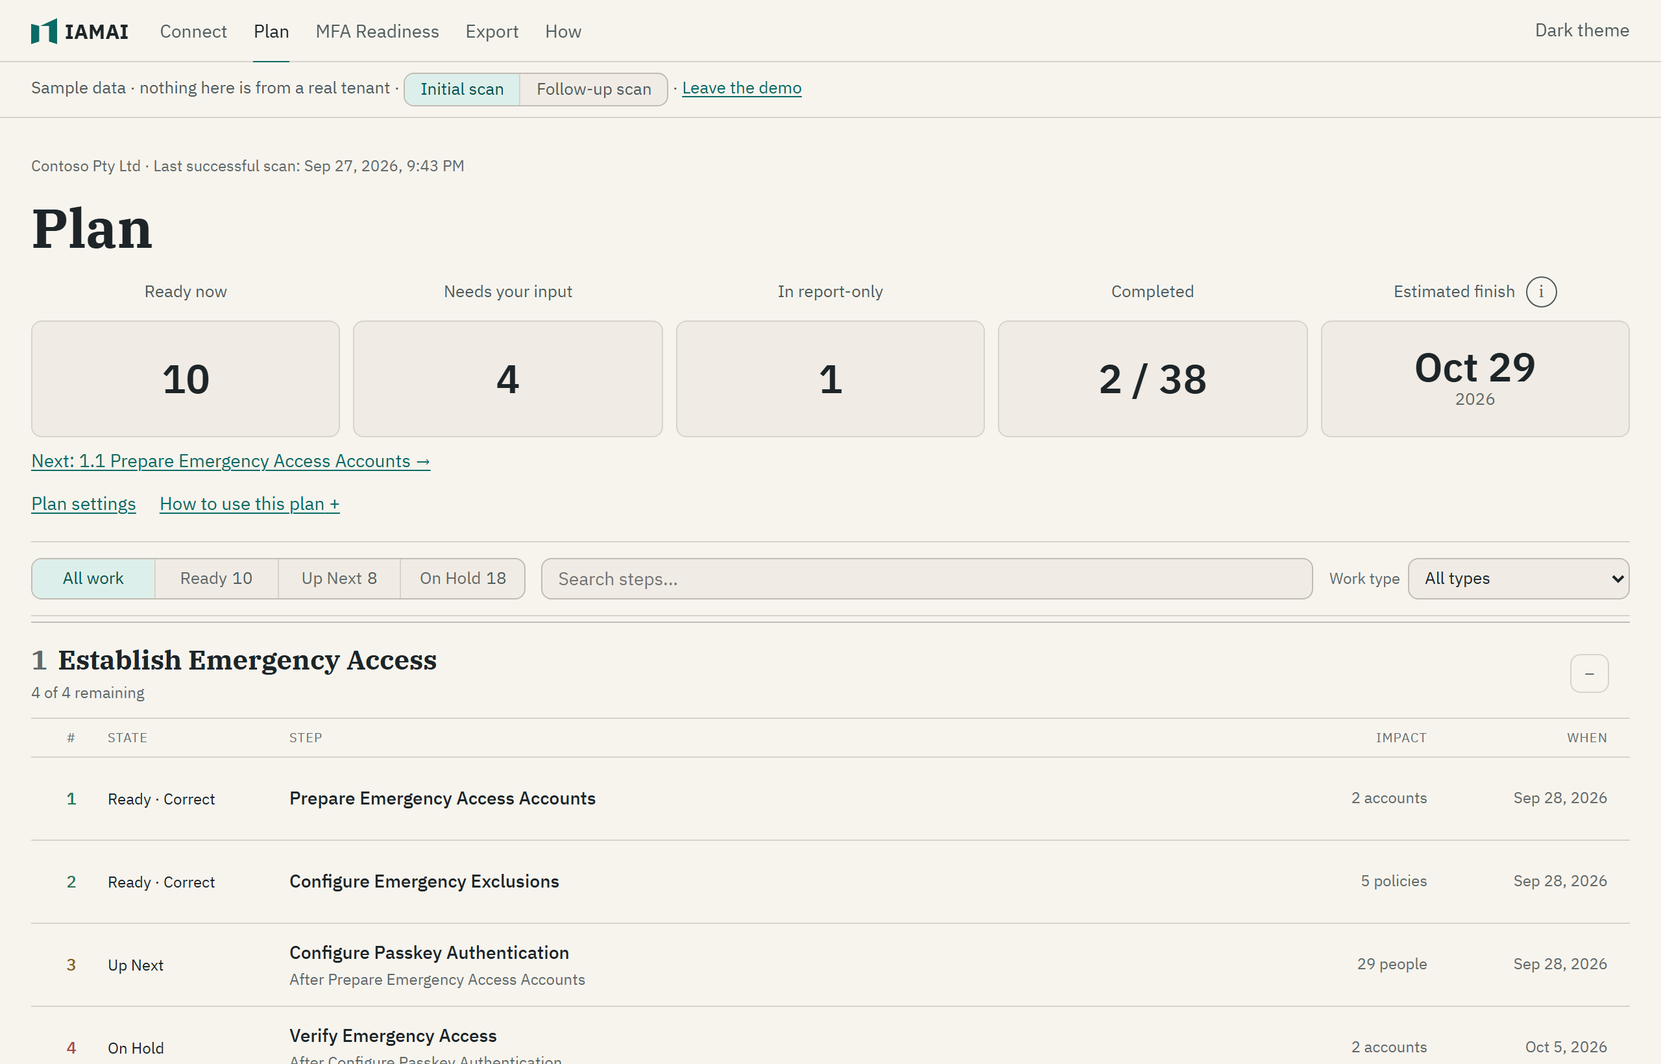
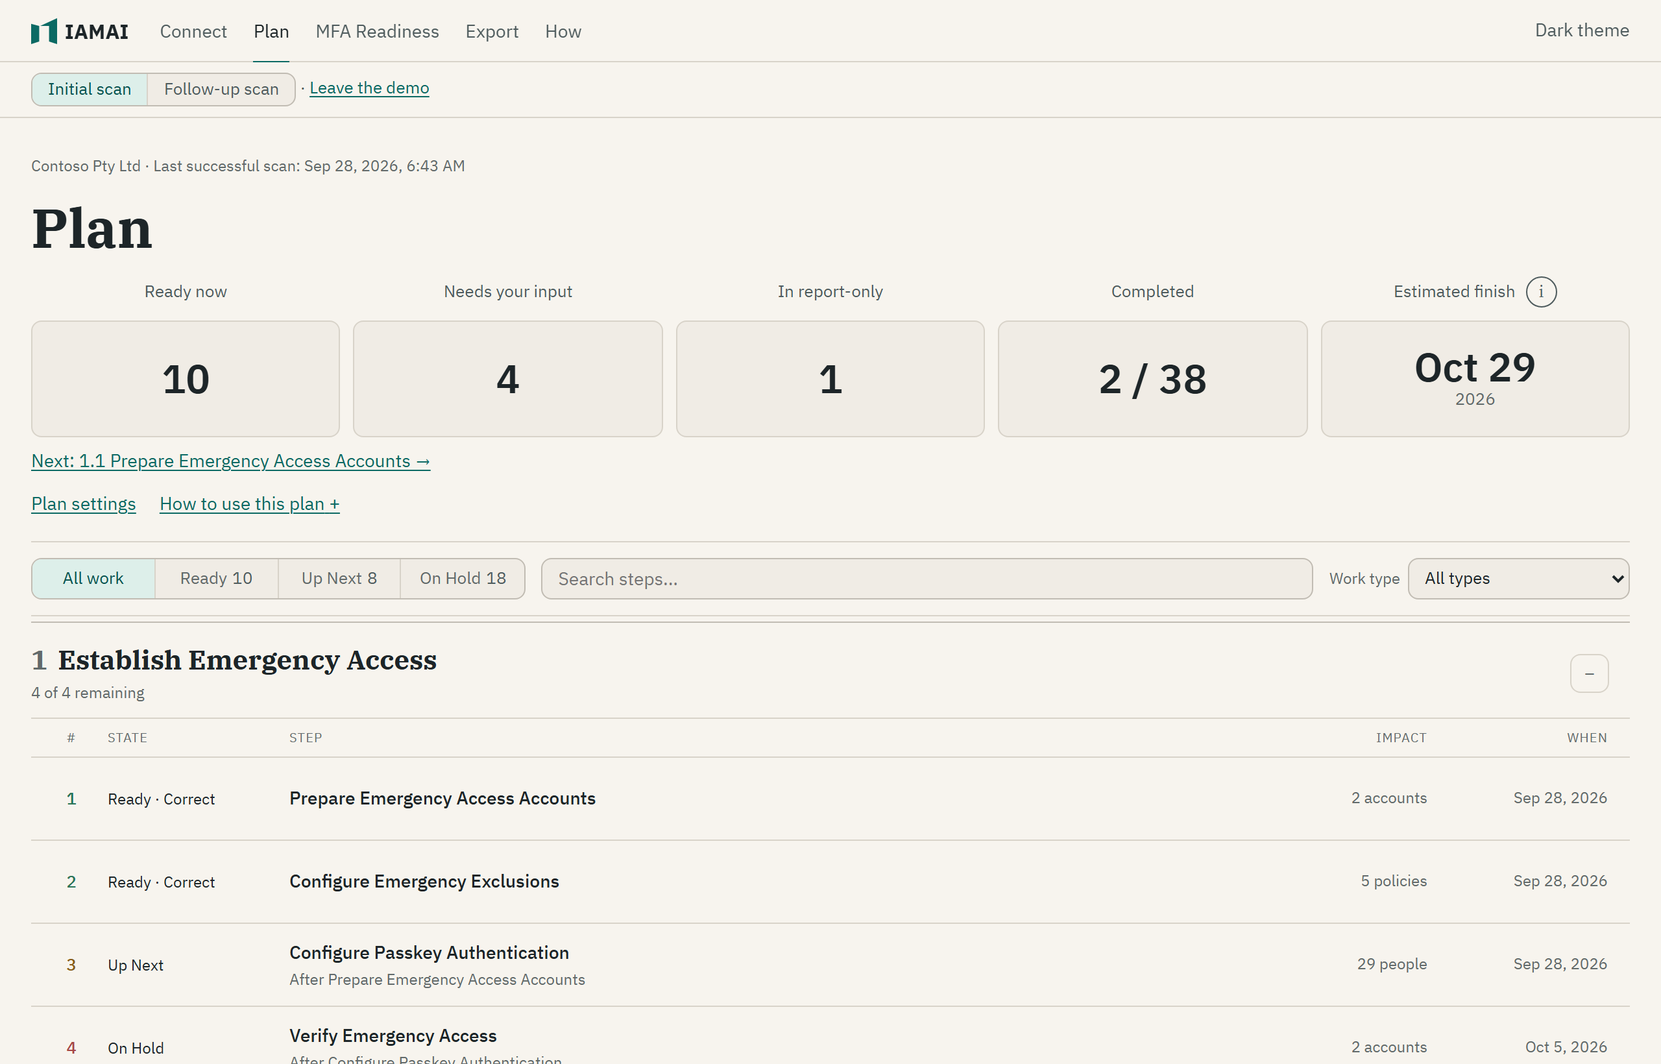
Home says what IAMAI does and catches in words the product backs; the fluff and the demo sentence go
Owner, 2026-09-28, after a four-lens review of the Home wording (truth
against the code, an evaluator, a Conditional Access expert, the repo's
rules):
- Cut: the hero meta row ("Free public preview", "You review and make the
  changes") and the picture's caption.
- The hero's button reads "Connect your tenant"; the header and the rail keep
  "Open IAMAI".
- What it does: Reads / Compares / Plans (the approved pack's beats), each
  claim the product backs: one admin consent then Global Reader, 30 days of
  interactive sign-ins, setting-by-setting comparison, report-only first
  wherever Microsoft evaluates it, who each change could affect.
- What it catches: emergency access, sign-in methods, service and shared
  accounts, legacy authentication, report-only results, each saying what IAMAI
  does, none a guarantee.
- The trust title reads "IAMAI is read-only" (its body says consent adds an
  enterprise application; "does not change your tenant" contradicted it).
- The demo bar is the two scans and Leave the demo; the follow-up scan's
  reason is its button's hover hint.
The headline, eyebrow, site line, LinkedIn text and image wait for the
owner's headline. The baseline rail keeps its words. Home pictures retaken.
CLAUDE.md and STATUS.md stop citing two design docs deleted on 2026-09-09.

Content keys added: pages.home.connect, pages.app.shell.demoFollowUpHint
(with $commentDemoFollowUpHint). Removed: pages.home.heroMeta,
[…]

Changed region(s): [[0.0, 0.0622, 0.4688, 0.1244]]

diff --git a/home/index.html b/home/index.html
@@ -48,31 +48,26 @@
     </header>
 
     <main class="page">
-      <!-- The outcome, what IAMAI does about it, the two ways in, and the three
-           claims the trust section below spends the rest of the page proving. -->
+      <!-- The outcome, what IAMAI does about it, and the two ways in. -->
       <div class="hero">
         <p class="eyebrow">Microsoft identity security</p>
         <h1>Know what needs attention before you change a policy.</h1>
         <p class="site-line">A policy can look right and still cause problems. IAMAI checks who has the required sign-in methods, whether the available records show they use them, and which exclusions or outside accounts need a closer look. Then it helps you plan the changes.</p>
         <p class="actions">
-          <a class="btn btn-primary" href="/{{TOOL_PATH}}/#/connect">Open IAMAI</a>
+          <a class="btn btn-primary" href="/{{TOOL_PATH}}/#/connect">Connect your tenant</a>
           <a class="btn btn-secondary" href="/{{TOOL_PATH}}/?demo=1#/plan">Try it with sample data</a>
-        </p>
-        <p class="meta">
-          <span>Free public preview</span>
-          <span>You review and make the changes</span>
         </p>
       </div>
 
       <!-- The product, shown once (pack v3, OWN-B1): the sample tenant's Plan in
            the page's theme, captured from the demo by scripts/home-shot.mjs, and
-           linking to the sample. -->
+           linking to the sample. No caption: the picture says what it is (owner,
+           2026-09-28). -->
       <figure class="shot">
         <a href="/{{TOOL_PATH}}/?demo=1#/plan">
           <img class="shot-dark" src="/plan-dark.png" alt="The sample tenant's plan in IAMAI Planner: what is ready now, the next step, and the first section's steps with their dates." width="1280" height="820" loading="lazy" />
           <img class="shot-light" src="/plan-light.png" alt="The sample tenant's plan in IAMAI Planner: what is ready now, the next step, and the first section's steps with their dates." width="1280" height="820" loading="lazy" />
         </a>
-        <figcaption>The plan IAMAI writes for the sample tenant.</figcaption>
       </figure>
 
       <!-- What IAMAI does, and beside it the standard it is doing it against.
@@ -82,12 +77,12 @@
         <div class="product">
           <div>
             <p class="eyebrow">What it does</p>
-        <h2 id="work-heading">See what needs doing, and what needs to happen first.</h2>
-            <p class="lead">Start with the tenant you have. IAMAI compares it with the Defense in Depth baseline, shows the gaps it can assess, and puts the work in order.</p>
+        <h2 id="work-heading">From your tenant to the baseline, one step at a time.</h2>
+            <p class="lead">IAMAI compares your tenant with the Defense in Depth baseline and orders the work so each policy waits until what it depends on is ready.</p>
             <div class="steps">
-              <div class="step"><b>Check</b><span>Review policies, accounts, groups and the sign-in evidence Microsoft makes available to this tenant.</span></div>
-              <div class="step"><b>Understand</b><span>See what already meets the baseline, what needs attention, and who a change could affect.</span></div>
-              <div class="step"><b>Prepare</b><span>Work through the prerequisites, review the instructions, and test changes before enforcing them.</span></div>
+              <div class="step"><b>Reads</b><span>After one admin consent, a Global Reader sign-in is enough. IAMAI reads your policies, people, sign-in methods and up to 30 days of interactive sign-ins.</span></div>
+              <div class="step"><b>Compares</b><span>Each baseline policy against yours, setting by setting. The name doesn't matter; the settings do.</span></div>
+              <div class="step"><b>Plans</b><span>A dated plan: emergency access first, report-only first wherever Microsoft evaluates it, and who each change could affect.</span></div>
             </div>
           </div>
           <aside class="side">
@@ -103,13 +98,13 @@
 
       <section class="band" aria-labelledby="catches-heading">
         <p class="eyebrow">What it catches</p>
-        <h2 id="catches-heading">A few things worth checking before you deploy.</h2>
+        <h2 id="catches-heading">What can lock people out, found before you turn a policy on.</h2>
         <div class="catches">
-          <div class="catch"><b>Sign-in methods</b><span>Someone has registered a strong method, but the available records do not show them using it.</span></div>
-          <div class="catch"><b>Emergency access</b><span>A proposed policy may reach the accounts you rely on to recover access.</span></div>
-          <div class="catch"><b>Exclusions</b><span>Accounts in an exclusion group need a review of why they are still exempt.</span></div>
-          <div class="catch"><b>Outside accounts</b><span>Guests may need different preparation or follow-up before a change applies to them.</span></div>
-          <div class="catch"><b>Shared accounts</b><span>A meeting-room or service account may need attention before new sign-in requirements take effect.</span></div>
+          <div class="catch"><b>Emergency access</b><span>A policy that would reach the accounts you use to get back in. The plan excludes them through one group, and each scan checks the group still holds them.</span></div>
+          <div class="catch"><b>Sign-in methods</b><span>People whose only method a policy won’t accept, or who haven’t used the MFA they registered in the last 30 days.</span></div>
+          <div class="catch"><b>Service and shared accounts</b><span>Accounts that look like scanners, service mailboxes or meeting-room devices, suggested from their names, licences and sign-ins, so you decide how each is handled before MFA reaches it.</span></div>
+          <div class="catch"><b>Legacy authentication</b><span>Accounts that recent sign-ins show still using IMAP, POP, SMTP AUTH or ActiveSync, named before you block legacy authentication.</span></div>
+          <div class="catch"><b>Report-only results</b><span>After a policy’s report-only period, the next scan names anyone it would have stopped, and its turn-on waits for them.</span></div>
         </div>
       </section>
 
@@ -117,7 +112,7 @@
         <p class="eyebrow">What it does with your tenant</p>
         <h2 id="trust-heading">Your tenant stays under your control.</h2>
         <div class="trust">
-          <span><strong>IAMAI does not change your tenant</strong> You can review the permissions before connecting. Approving them adds one enterprise application to the tenant, which you can delete. IAMAI reads the tenant to build the plan; you decide which changes to make and carry them out yourself.</span>
+          <span><strong>IAMAI is read-only</strong> You can review the permissions before connecting. Approving them adds one enterprise application to the tenant, which you can delete. IAMAI reads the tenant to build the plan; you decide which changes to make and carry them out yourself.</span>
           <span><strong>Your scan is processed on your device</strong> Tenant data is read from Microsoft and processed in your browser. IAMAI has no server, so your scan is not uploaded anywhere. Downloaded plans and copied briefings can contain tenant information, so review them before sharing. The website host may also collect page-load information.</span>
           <span><strong>You can inspect the code</strong> The source and documented limits are public. Check how IAMAI works, report a problem, or suggest an improvement. <a class="lnk" href="https://github.com/ZephyrPretendstoKnowTech/iamai">View IAMAI on GitHub</a></span>
         </div>

diff --git a/src/home.test.ts b/src/home.test.ts
@@ -105,7 +105,11 @@ test('the public claims are the true ones: read-only, browser-local, no server, 
   assert.doesNotMatch(said, /privacy first|secure by design|your data is safe|bank.grade|military.grade|\b(ISO ?27001|SOC ?2|GDPR compliant|HIPAA|certified|uptime|SLA|partner of|trusted by)\b/i, said)
   const work = WORK.map((b) => `${b.verb} ${b.text}`).join(' ')
   assert.doesNotMatch(work, /\b(applies|applying|apply|remediates|enforces|deploys|rolls out|fixes) (it|them|the|your|a) /i, work)
-  assert.doesNotMatch(JSON.stringify(H.heroMeta), /guarantee|certified|automatically/i)
+  // The hero promises the plan, never an outcome the product disclaims (README: IAMAI does
+  // not guarantee that nobody is locked out; the pre-launch wording review, 2026-09-28).
+  const hero = [H.eyebrow, H.h1, H.siteLine].join(' ')
+  assert.doesNotMatch(hero, /guarantee|certified|automatically|without locking anyone out|\bproven\b|changes nothing/i, hero)
+  assert.equal('heroMeta' in H, false, 'the hero meta row was cut (owner, 2026-09-28)')
   const baseline = [H.baselineName, H.baseline, H.baselineGoal, H.baselineNote].join(' ')
   for (const fact of ['Defense in Depth', 'Jon Hope', 'Microsoft MVP']) assert.ok(baseline.includes(fact) && html.includes(esc(fact)), `the rail names ${fact}`)
   assert.doesNotMatch(baseline, /Microsoft(-| )(approved|certified|endorsed|recommended|official)|endorse|certifie|approved by Microsoft|partnership/i, baseline)
@@ -118,6 +122,9 @@ test('every link into the planner is a real route, and the build publishes home 
   const into = links(html).filter((l) => l.href.startsWith('/{{TOOL_PATH}}/'))
   // The picture under the hero links to the sample as the hero's second button does (OWN-B1).
   assert.deepEqual(into.map((l) => l.href), [HOW_HREF, PRODUCT_ENTRY, PRODUCT_ENTRY, DEMO_HREF, DEMO_HREF, PRODUCT_ENTRY])
+  // The hero's button says what happens next; the header and the rail keep the product's name (owner, 2026-09-28).
+  assert.deepEqual(into.filter((l) => l.href === PRODUCT_ENTRY).map((l) => l.text), [H.open, H.connect, H.open])
+  assert.equal(H.connect, 'Connect your tenant')
   const routes = readFileSync('src/ui/shell/routes.ts', 'utf8')
   for (const hash of ['connect', 'how', 'plan']) assert.ok(routes.includes(`'${hash}'`), `#/${hash} is a planner route`)
   assert.equal(PRODUCT_ENTRY, '/{{TOOL_PATH}}/#/connect', 'the product entry is Connect, the first step of the product')
@@ -158,8 +165,9 @@ test('Home shows the product once under the hero: the sample Plan in the page\'s
   assert.ok(figure.includes('<a href="/{{TOOL_PATH}}/?demo=1#/plan">'), 'the picture links to the sample')
   assert.match(figure, /<img class="shot-dark" src="\/plan-dark\.png"/)
   assert.match(figure, /<img class="shot-light" src="\/plan-light\.png"/)
-  assert.ok(figure.includes(`<figcaption>${String(H.shotCaption)}</figcaption>`))
-  assert.equal(H.shotCaption, 'The plan IAMAI writes for the sample tenant.')
+  // No caption: the picture says what it is (owner, 2026-09-28).
+  assert.equal(figure.includes('<figcaption'), false, 'the picture carries a caption')
+  assert.equal('shotCaption' in H, false)
   // Both pictures ship with the page, and one shows per theme.
   const files = readdirSync(home)
   assert.ok(files.includes('plan-dark.png') && files.includes('plan-light.png'), 'the pictures are not in home/')

diff --git a/scripts/build-home.ts b/scripts/build-home.ts
@@ -5,14 +5,15 @@
 // The composition below is the owner's approved Home design,
 // docs/design/approved/anatomy/home-v3.html, recorded in
 // docs/design/approved/manifest.json. That file owns the anatomy — the public
-// header, the hero and its meta row, the two-column product section with its
+// header, the hero, the two-column product section with its
 // side rail, the Reads / Compares / Plans rows, the label-and-explanation
 // catches, the trust row, About and the footer, and the 760 and 560
 // breakpoints. It does NOT own the words (docs/design/content.json) or the
 // technical truth (what IAMAI reads, what it may not do): where the pack's
 // placeholder copy and production's own accurate sentence disagree,
 // production's sentence wins and the pack's shape keeps it
-// (docs/design/authority-reconciliation.md).
+// (docs/design/approved/manifest.json). The owner cut the pack's hero meta row and
+// the picture's caption on 2026-09-28 (docs/STATUS.md); the rest is the pack's.
 //
 // The home page wears the same palette, type scale and fonts as the planner
 // (theme.css from the tokens), and every sentence it shows is a string in
@@ -85,9 +86,9 @@ type HomeContent = {
   siteLine: string
   open: string
   demo: string
-  heroMeta: string[]
+  /** The hero's primary button (owner, 2026-09-28); the header and the rail keep `open`. */
+  connect: string
   shotAlt: string
-  shotCaption: string
   workLabel: string
   workHeading: string
   workLead: string
@@ -249,30 +250,26 @@ export function renderHomeHtml(): string {
     </header>
 
     <main class="page">
-      <!-- The outcome, what IAMAI does about it, the two ways in, and the three
-           claims the trust section below spends the rest of the page proving. -->
+      <!-- The outcome, what IAMAI does about it, and the two ways in. -->
       <div class="hero">
         <p class="eyebrow">${esc(h.eyebrow)}</p>
         <h1>${esc(h.h1)}</h1>
         <p class="site-line">${esc(h.siteLine)}</p>
         <p class="actions">
-          ${button(h.open, PRODUCT_ENTRY, 'primary')}
+          ${button(h.connect, PRODUCT_ENTRY, 'primary')}
           ${button(h.demo, DEMO_HREF, 'secondary')}
-        </p>
-        <p class="meta">
-          ${h.heroMeta.map((m) => `<span>${esc(m)}</span>`).join('\n          ')}
         </p>
       </div>
 
       <!-- The product, shown once (pack v3, OWN-B1): the sample tenant's Plan in
            the page's theme, captured from the demo by scripts/home-shot.mjs, and
-           linking to the sample. -->
+           linking to the sample. No caption: the picture says what it is (owner,
+           2026-09-28). -->
       <figure class="shot">
         <a href="${DEMO_HREF}">
           <img class="shot-dark" src="/plan-dark.png" alt="${esc(h.shotAlt)}" width="1280" height="820" loading="lazy" />
           <img class="shot-light" src="/plan-light.png" alt="${esc(h.shotAlt)}" width="1280" height="820" loading="lazy" />
         </a>
-        <figcaption>${esc(h.shotCaption)}</figcaption>
       </figure>
 
       <!-- What IAMAI does, and beside it the standard it is doing it against.

diff --git a/src/ui/shell/AppShell.tsx b/src/ui/shell/AppShell.tsx
@@ -345,14 +345,10 @@ export function AppShell({
       </header>
       {isDemo() && (
         <p className="demo-banner">
-          {/* The sample-data fact is a sentence, not a colour: it reads the same
-              in a screen reader, in print's absence and at any width. It stands
-              on its own so the live region announces the sample and never the
-              selector's own labels every time a snapshot lands. */}
-          {/* On the follow-up scan the sentence says what changed and why, so Scan's
-              jump to it explains itself where the visitor is looking (F-017). */}
-          <span role="status">{demoWeek2 ? SHELL.demoBannerFollowUp : SHELL.demoBanner}</span>
-          {' · '}
+          {/* The bar is the two scans and the way out, with no sentence (owner,
+              2026-09-28): the sample's name, its scans and Leave the demo say it
+              is the sample. The follow-up scan's reason (F-017) is its button's
+              hover hint. */}
           {/* The progression: two synthetic scans, named. Pressing one changes
               the facts the app derives from (ui/actions.ts showDemoSnapshot) and
               nothing else. `aria-pressed` carries which one is showing, so the
@@ -362,7 +358,7 @@ export function AppShell({
             <button type="button" className="text-control" aria-pressed={!demoWeek2} onClick={() => showDemoSnapshot(false)}>
               {SHELL.demoSnapshotInitial}
             </button>
-            <button type="button" className="text-control" aria-pressed={demoWeek2} onClick={() => showDemoSnapshot(true)}>
+            <button type="button" className="text-control" aria-pressed={demoWeek2} title={SHELL.demoFollowUpHint} onClick={() => showDemoSnapshot(true)}>
               {SHELL.demoSnapshotFollowUp}
             </button>
           </span>

diff --git a/src/ui/demo.test.ts b/src/ui/demo.test.ts
@@ -409,8 +409,11 @@ test('the sample uses the pinned baseline, not a copy', () => {
 test('the demo banner says which sample scan is showing, as a two-segment switch', async () => {
   const { app } = await import('../content/content.ts')
   const shell = readFileSync('src/ui/shell/AppShell.tsx', 'utf8')
-  assert.match(shell, /<span role="status">\{demoWeek2 \? SHELL\.demoBannerFollowUp : SHELL\.demoBanner\}<\/span>/)
-  assert.equal(app.shell.demoBannerFollowUp, "Sample data · a follow-up scan weeks later, after the sample's own technician did some of the work")
+  // No sentence on the bar (owner, 2026-09-28): the two scans and Leave the demo, and the
+  // follow-up scan's reason (F-017) as its button's hover hint.
+  assert.doesNotMatch(shell, /SHELL\.demoBanner/)
+  assert.match(shell, /aria-pressed=\{demoWeek2\} title=\{SHELL\.demoFollowUpHint\}/)
+  assert.equal((app.shell as unknown as { demoFollowUpHint: string }).demoFollowUpHint, 'The same sample, weeks later')
   const css = readFileSync('src/ui/app.css', 'utf8')
   const rule = (sel: string): string => css.slice(css.indexOf(`${sel} {`), css.indexOf('}', css.indexOf(`${sel} {`)))
   assert.match(rule('.demo-banner .demo-snapshots'), /border: 1px solid var\(--strong-line\);/)

diff --git a/home/home.css b/home/home.css
@@ -221,21 +221,12 @@ main.page a[href] {
 .hero .actions {
   margin: 24px 0 0;
 }
-.hero .meta {
-  display: flex;
-  gap: 16px;
-  flex-wrap: wrap;
-  margin: 15px 0 0;
-  max-width: none;
-  color: var(--quiet-text);
-  font-size: var(--t-1);
-}
 
 /* ------------------------------------------------------------------- shot
    The product, shown once under the hero (pack v3, OWN-B1): the sample
-   tenant's Plan at the content width, framed as a panel, with one quiet
-   caption. The picture is in the page's theme: two images, one shown. It
-   links to the sample. */
+   tenant's Plan at the content width, framed as a panel, with no caption
+   (owner, 2026-09-28). The picture is in the page's theme: two images, one
+   shown. It links to the sample. */
 .shot {
   margin: 0 0 54px;
 }
@@ -254,11 +245,6 @@ main.page a[href] {
   display: block;
   width: 100%;
   height: auto;
-}
-.shot figcaption {
-  margin-top: 10px;
-  color: var(--quiet-text);
-  font-size: var(--t-1);
 }
 .shot .shot-dark {
   display: none;

diff --git a/src/content/render.ts b/src/content/render.ts
@@ -786,12 +786,10 @@ export function renderPages(): string {
         `<p class="sub">${esc(H.eyebrow)}</p>` +
         `<h2 class="h1">${esc(H.h1)}</h2>` +
         p(H.siteLine, {}) +
-        btn(H.open, true) +
+        btn(H.connect, true) +
         btn(H.demo) +
-        `<p class="sub">${(H.heroMeta as string[]).map((m) => esc(m)).join(' · ')}</p>` +
-        // The picture of the sample's Plan under the hero (pack v3, OWN-B1): its alt text and caption.
+        // The picture of the sample's Plan under the hero (pack v3, OWN-B1): its alt text; no caption (owner, 2026-09-28).
         `<p class="sub">[${esc(H.shotAlt)}]</p>` +
-        p(H.shotCaption, {}, 'sub') +
         h(H.workLabel) +
         `<h2>${esc(H.workHeading)}</h2>` +
         p(H.workLead, {}) +

diff --git a/CLAUDE.md b/CLAUDE.md
@@ -12,10 +12,11 @@ Where things stand, where each fact lives and the binding owner decisions: `docs
 - Exclusions go through the exclusions group, never an emergency account by name.
 - The pinned baseline wins: policy steps render from `baselines/*.pinned.json` through the translator.
 - Design authority runs: product truth → the approved HTML packs in `docs/design/approved/`
-  (Home, Connect, Plan, MFA Readiness; `manifest.json` holds their hashes) → the brand skin in
-  `docs/design/brand-decisions.md`. The packs own anatomy, never copy or technical truth.
-  Production does not implement them yet; `docs/design/authority-reconciliation.md` says why,
-  and the mockups under `docs/design/` are superseded records of what was built.
+  (Home, Connect, Plan, MFA Readiness; `manifest.json` holds their hashes) → the brand contract in
+  `docs/brand/iamai-brand-contract.md`. The packs own anatomy, never copy or technical truth.
+  Production was restored onto the packs (tasks 031–041, recorded in `manifest.json`); where the
+  owner has since changed a surface, the change wins and `docs/STATUS.md` records it. The mockups
+  under `docs/design/` are superseded records of what was built.
 
 ## How to work
 - Before editing: open the files the task names, once. No repository survey, no reading tests or archive/. Grep only for a symbol a named file references.

diff --git a/docs/STATUS.md b/docs/STATUS.md
@@ -27,7 +27,7 @@ what was promised and never done.
 | Contributing, CI and review rules | `CONTRIBUTING.md` |
 | Permissions, storage, exports, reporting a vulnerability | `SECURITY.md` |
 | Every word the product shows | `docs/design/content.json` |
-| Design authority | `docs/design/approved/` (hashes in `manifest.json`), then `docs/design/brand-decisions.md`; `docs/design/authority-reconciliation.md` says what production follows |
+| Design authority | `docs/design/approved/` (the packs in `anatomy/`, their hashes and what production follows in `manifest.json`), then the brand contract `docs/brand/iamai-brand-contract.md`; owner changes made since are in the decisions below |
 | The baseline | `baselines/*.pinned.json` with its index and interpretation; `docs/baselines/` |
 | The step standard | `docs/plans/roadmap-flow/intent.md` (the seven questions), `step-template.md` |
 | The v1.0 plan and its design decisions | `docs/plans/roadmap-flow/v1-plan.md` |
